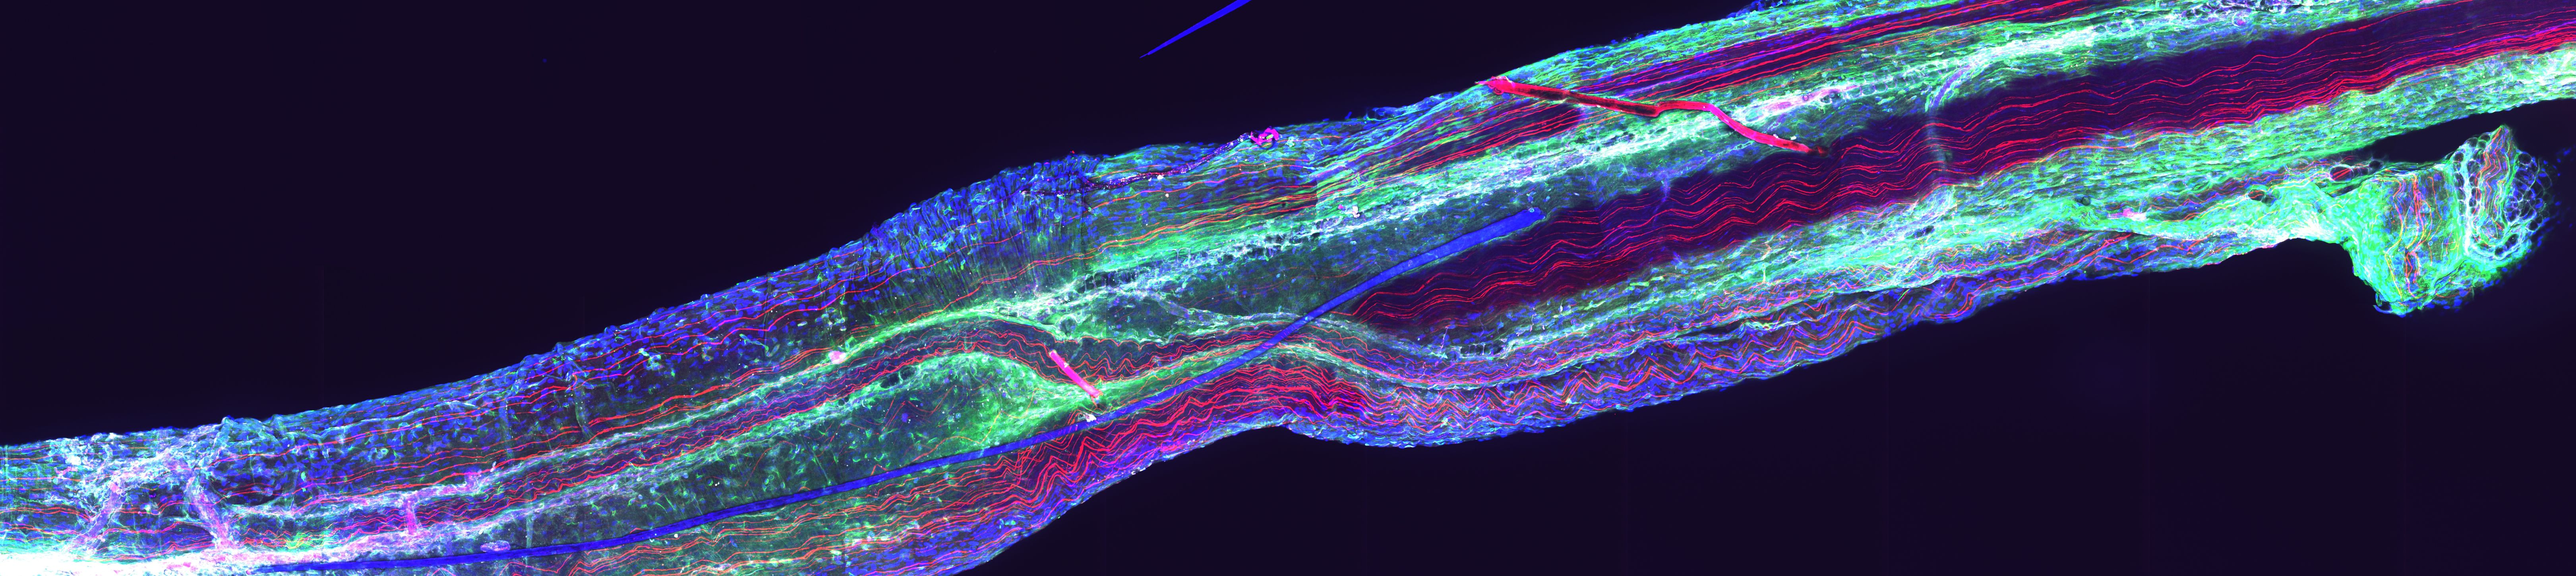
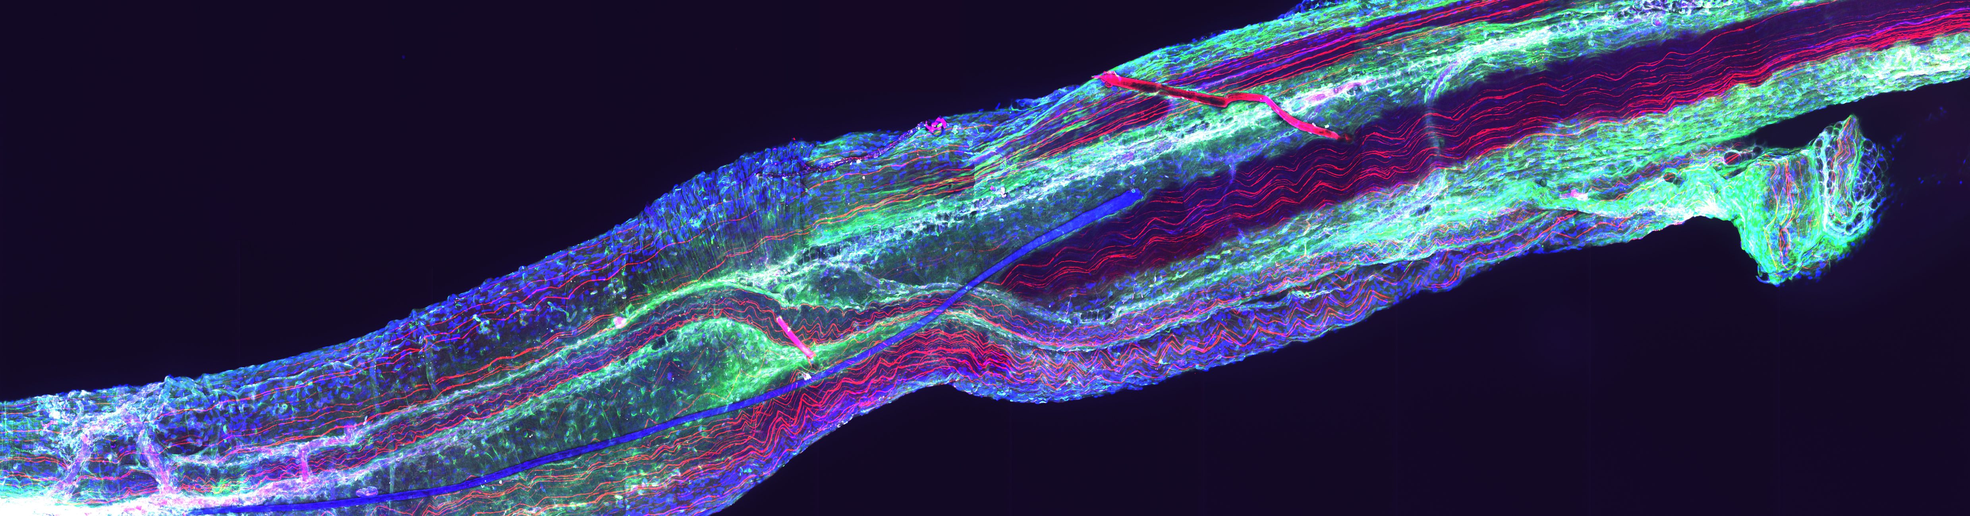
Hero confident-gradient redesign; map, publications, collaborators polish
- Hero: gradient-scrim vertical panel (purple ink, stops ~92%), top-left kicker + content anchored to the bottom, gray caption with teal arrow; new banner image + regenerated WebP
- Publications: "Our work" heading with the peer-reviewed-papers subline
- Collaborators: prominent names with discreet external-link arrows, on the same grid as Alumni
- Contact: replaced the OSM iframe (donation prompt) with a Leaflet map, same center, zoom 17
- Header: nav + logo use the default cursor; homepage tab title simplified to "Hong Lab"
- Header/footer content columns matched; contact heading-to-content gap normalized

diff --git a/css/style.css b/css/style.css
@@ -38,7 +38,7 @@ site-footer {
     --radius: 8px;
     --radius-lg: 12px;
 
-    --panel-w: 680px;           /* hero panel width; the header nav begins at its right edge */
+    --panel-w: 680px;           /* hero panel width */
 }
 
 body {
@@ -136,7 +136,6 @@ a:hover {
     display: inline-flex;
     align-items: center;
     gap: 12px;
-    flex: 0 1 var(--panel-w);   /* reserve the panel's width so the nav starts at the panel's right edge */
     /* Sans-serif wordmark in a subtle grey, to sit quietly beside the
        grey shield and echo the muted tone of the nav. */
     color: rgba(255, 255, 255, 0.66);
@@ -145,6 +144,7 @@ a:hover {
     font-weight: 400;
     letter-spacing: 0.14em;
     text-transform: uppercase;
+    cursor: default;
 }
 
 .logo-mark img {
@@ -190,14 +190,10 @@ body.homepage .site-header.is-scrolled .logo-rest-text {
     transform: translateX(0);
 }
 
-.main-nav {
-    flex: 1 0 auto;             /* fills the space from the panel edge to the right gutter */
-}
-
 .main-nav ul {
     list-style: none;
     display: flex;
-    gap: 30px;
+    gap: 28px;
     margin: 0;
     padding: 0;
 }
@@ -209,6 +205,7 @@ body.homepage .site-header.is-scrolled .logo-rest-text {
     font-weight: 400;
     letter-spacing: 0.1em;
     text-transform: uppercase;
+    cursor: default;
     transition: color 0.2s ease;
 }
 
@@ -277,7 +274,7 @@ body.homepage .site-header.is-scrolled .logo-rest-text {
     height: calc(100vh - 150px);
     min-height: 620px;
     display: flex;
-    align-items: stretch;
+    align-items: flex-start;
     justify-content: flex-start;
     overflow: hidden;
 }
@@ -314,21 +311,39 @@ body.homepage .site-header.is-scrolled .logo-rest-text {
     position: absolute;
     z-index: 3;
     right: 52px;
-    bottom: 30px;
+    top: 32px;
     margin: 0;
     display: inline-flex;
     align-items: center;
     gap: 8px;
-    color: var(--accent-bright);
+    color: rgba(255, 255, 255, 0.62);
     font-family: var(--font-sans);
-    font-size: 13px;
+    font-size: 12px;
     font-weight: 400;
     letter-spacing: 0.05em;
     line-height: 1;
+    text-shadow: 0 1px 4px rgba(0, 0, 0, 0.55);
 }
 
 .hero-caption figcaption {
     margin: 0;
+}
+
+/* Deliberate editorial kicker, top-left, anchoring the top of the panel. */
+.hero-kicker {
+    position: absolute;
+    top: 32px;
+    left: 52px;
+    margin: 0;
+    z-index: 3;
+    font-family: var(--font-sans);
+    font-size: 12px;
+    font-weight: 500;
+    letter-spacing: 0.2em;
+    text-transform: uppercase;
+    line-height: 1;
+    color: rgba(255, 255, 255, 0.72);
+    text-shadow: 0 1px 4px rgba(0, 0, 0, 0.55);
 }
 
 .hero-caption::after {
@@ -346,19 +361,24 @@ body.homepage .site-header.is-scrolled .logo-rest-text {
 
     width: min(var(--panel-w), calc(100% - 96px));
     max-width: var(--panel-w);
+    height: 92%;                /* tall panel, stops just short of the bottom */
     margin: 0;
     margin-left: max(44px, calc((100% - 1480px) / 2 + 44px));
     padding: 48px 52px;
     box-sizing: border-box;
 
-    /* Full-height vertical panel; content centred within it. */
+    /* Tall panel; content anchored to the bottom. */
     display: flex;
     flex-direction: column;
-    justify-content: center;
+    justify-content: flex-end;
 
-    background: rgba(10, 11, 14, 0.64);
-    backdrop-filter: blur(14px) saturate(115%);
-    -webkit-backdrop-filter: blur(14px) saturate(115%);
+    /* Gradient scrim: the nerve reads sharp at the top, deepening to opaque
+       behind the title so it stays legible — confident, not a flat block. */
+    background: linear-gradient(to bottom,
+                rgba(14, 9, 23, 0) 0%,
+                rgba(14, 9, 23, 0.30) 26%,
+                rgba(14, 9, 23, 0.88) 52%,
+                rgba(14, 9, 23, 0.97) 100%);
     border: none;
     border-radius: 0;
 
@@ -376,6 +396,7 @@ body.homepage .site-header.is-scrolled .logo-rest-text {
     font-weight: 400;
     letter-spacing: 0;
     text-transform: none;
+    text-shadow: 0 1px 6px rgba(0, 0, 0, 0.45);
 }
 
 .hero-heading {
@@ -384,6 +405,7 @@ body.homepage .site-header.is-scrolled .logo-rest-text {
     font-size: clamp(56px, 8vw, 128px);
     line-height: 1.02;
     font-weight: 300;
+    text-shadow: 0 2px 16px rgba(0, 0, 0, 0.55), 0 1px 4px rgba(0, 0, 0, 0.5);
     letter-spacing: -0.035em;
     max-width: none;
 }
@@ -709,7 +731,7 @@ body.homepage .site-header.is-scrolled .logo-rest-text {
 
 .page-title,
 .small-section-title {
-    margin: 0 0 18px 0;
+    margin: 0 0 22px 0;
     font-size: clamp(34px, 4.5vw, 56px);
     line-height: 1.05;
     font-weight: 300;
@@ -1078,22 +1100,33 @@ body.homepage .site-header.is-scrolled .logo-rest-text {
 
 /* Collaborators — linked names that flow across the same grid as alumni. */
 .collaborator-link {
-    display: inline-block;
-    margin: 0 0 6px 0;
-    font-size: 16px;
-    line-height: 1.5;
-    font-weight: 300;
-    color: #374151;
-    text-decoration: underline;
-    text-decoration-color: rgba(10, 10, 10, 0.22);
-    text-underline-offset: 3px;
+    display: inline-flex;
+    align-items: center;
+    gap: 7px;
+    font-size: 17px;
+    line-height: 1.35;
+    font-weight: 400;
+    color: #1f2937;
     transition: color 0.2s ease;
+}
+
+/* Discreet external-link mark instead of a generic underline. */
+.collaborator-link::after {
+    content: "\2197";
+    font-size: 0.7em;
+    color: var(--accent-bright);
+    opacity: 0.75;
+    transition: transform 0.2s ease, opacity 0.2s ease;
 }
 
 .collaborator-link:hover {
     opacity: 1;
     color: var(--accent-page);
-    text-decoration-color: var(--accent-page);
+}
+
+.collaborator-link:hover::after {
+    opacity: 1;
+    transform: translate(2px, -2px);
 }
 
 /* Collaborators read as one tidy list (not headerless columns), tucked
@@ -1103,10 +1136,15 @@ body.homepage .site-header.is-scrolled .logo-rest-text {
 }
 
 .collaborators-list {
-    display: flex;
-    flex-wrap: wrap;
-    gap: 14px 52px;
-    margin-top: 20px;
+    display: grid;
+    grid-template-columns: repeat(auto-fit, minmax(220px, 1fr));
+    gap: 20px 44px;
+}
+
+@media (max-width: 560px) {
+    .collaborators-list {
+        grid-template-columns: 1fr;
+    }
 }
 
 .side-by-side-lists {
@@ -1181,7 +1219,7 @@ body.homepage .site-header.is-scrolled .logo-rest-text {
 }
 
 .footer-inner {
-    max-width: 1480px;
+    max-width: 1392px;
     margin: 0 auto;
     display: grid;
     grid-template-columns: 1.7fr 1fr 1.35fr 1.35fr;
@@ -1328,12 +1366,6 @@ body.homepage .site-header.is-scrolled .logo-rest-text {
         padding: 20px 24px;
     }
 
-    /* On mobile the logo shrinks to its natural width (the desktop
-       panel-width reservation doesn't apply). */
-    .logo-mark {
-        flex: 0 0 auto;
-    }
-
     .nav-toggle {
         display: flex;
     }
@@ -1431,6 +1463,12 @@ body.homepage .site-header.is-scrolled .logo-rest-text {
     margin: 0 auto;
 }
 
+/* Contact has no page-desc, so tighten the heading-to-content gap to match
+   the 22px rhythm used under the other section headings. */
+.contact-section .page-header {
+    margin-bottom: 22px;
+}
+
 .contact-layout {
     display: grid;
     grid-template-columns: 0.85fr 1.15fr;
@@ -1492,11 +1530,10 @@ body.homepage .site-header.is-scrolled .logo-rest-text {
     background: #ececec;
 }
 
-.contact-map iframe {
+.contact-map-canvas {
     width: 100%;
     height: 100%;
-    border: 0;
-    display: block;
+    min-height: 340px;
 }
 
 @media (max-width: 760px) {

diff --git a/pages/contact.html b/pages/contact.html
@@ -11,6 +11,7 @@
   <meta property="og:image" content="../assets/img/sciatic-nerve.jpg">
   <meta name="twitter:card" content="summary_large_image">
   <link rel="stylesheet" href="../css/style.css">
+  <link rel="stylesheet" href="https://unpkg.com/leaflet@1.9.4/dist/leaflet.css">
   <link rel="icon" type="image/png" href="../assets/favicon.png">
 </head>
 
@@ -51,10 +52,7 @@
         </div>
 
         <div class="contact-map">
-          <iframe
-            src="https://www.openstreetmap.org/export/embed.html?bbox=-72.2908%2C43.7060%2C-72.2788%2C43.7120&layer=mapnik&marker=43.7089614%2C-72.2848164"
-            title="Map to the Hong Lab — 74 College St, Hanover, NH"
-            loading="lazy"></iframe>
+          <div id="map" class="contact-map-canvas" role="img" aria-label="Map to the Hong Lab — 74 College St, Hanover, NH"></div>
         </div>
       </div>
 
@@ -63,6 +61,21 @@
 
   <site-footer></site-footer>
 
+  <script src="https://unpkg.com/leaflet@1.9.4/dist/leaflet.js"></script>
+  <script>
+    (function () {
+      var lat = 43.7089614, lng = -72.2848164;
+      var map = L.map('map', { scrollWheelZoom: false }).setView([lat, lng], 17);
+      map.attributionControl.setPrefix('');
+      L.tileLayer('https://{s}.tile.openstreetmap.org/{z}/{x}/{y}.png', {
+        maxZoom: 19,
+        attribution: '&copy; <a href="https://www.openstreetmap.org/copyright" target="_blank" rel="noopener">OpenStreetMap</a> contributors'
+      }).addTo(map);
+      L.circleMarker([lat, lng], {
+        radius: 9, color: '#ffffff', weight: 3, fillColor: '#3E8E88', fillOpacity: 1
+      }).addTo(map);
+    })();
+  </script>
   <script src="../js/components.js"></script>
 </body>
 </html>

diff --git a/index.html b/index.html
@@ -3,7 +3,7 @@
 <head>
   <meta charset="UTF-8">
   <meta name="viewport" content="width=device-width, initial-scale=1.0">
-  <title>Hong Lab — Neurosurgical Systems Biology</title>
+  <title>Hong Lab</title>
   <meta name="description" content="The Hong Lab at Dartmouth's Geisel School of Medicine is a neurosurgical systems biology group bridging the operating room and the laboratory to investigate neurological disease.">
   <meta property="og:type" content="website">
   <meta property="og:title" content="Hong Lab — Neurosurgical Systems Biology">
@@ -26,12 +26,13 @@
           <source srcset="assets/img/sciatic-nerve.webp" type="image/webp">
           <img class="hero-image" src="assets/img/sciatic-nerve.jpg"
                alt="Fluorescence imaging of a sciatic nerve in the Hong Lab"
-               width="6483" height="1450" fetchpriority="high" decoding="async">
+               width="4960" height="1300" fetchpriority="high" decoding="async">
         </picture>
         <div class="hero-overlay"></div>
       </div>
 
       <div class="hero-content">
+        <p class="hero-kicker">Geisel School of Medicine · Dartmouth</p>
         <h1 class="hero-heading">Hong Lab</h1>
         <p class="hero-subheading">neurosurgical systems biology</p>
 

diff --git a/pages/publications.html b/pages/publications.html
@@ -22,7 +22,8 @@
     <section class="publications-section" id="publications-section">
       <div class="page-header">
         <p class="page-eyebrow">Publications</p>
-        <h1 class="page-heading">Peer-reviewed papers and preprints</h1>
+        <h1 class="page-heading">Our work</h1>
+        <p class="page-desc">Peer-reviewed papers and preprints</p>
       </div>
     </section>
   </main>
